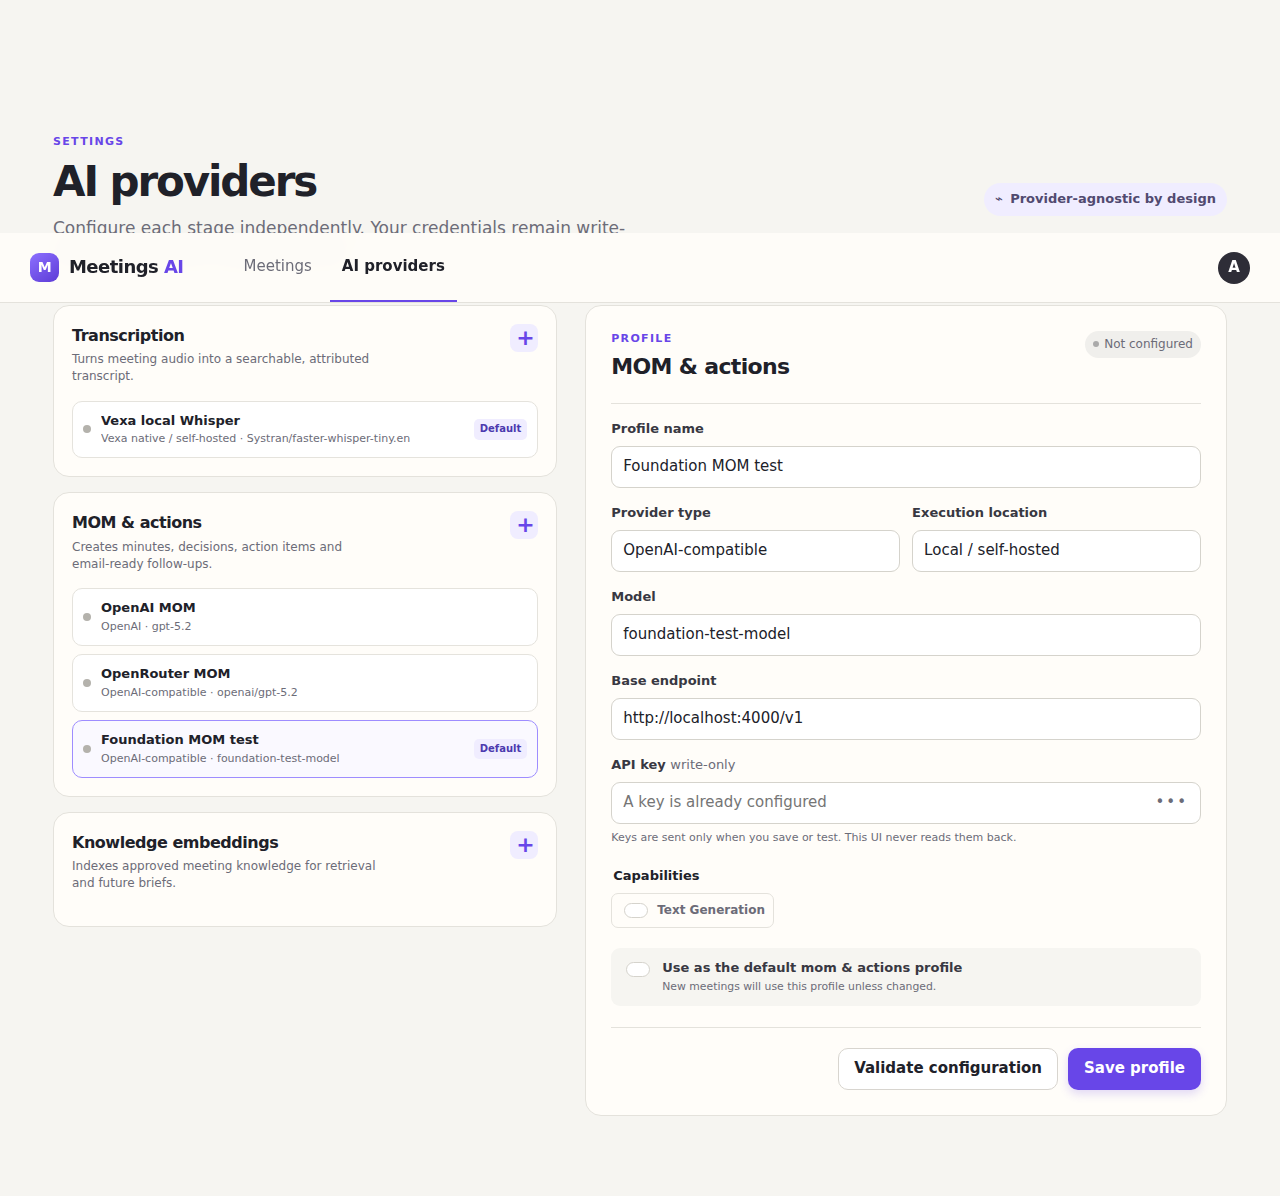
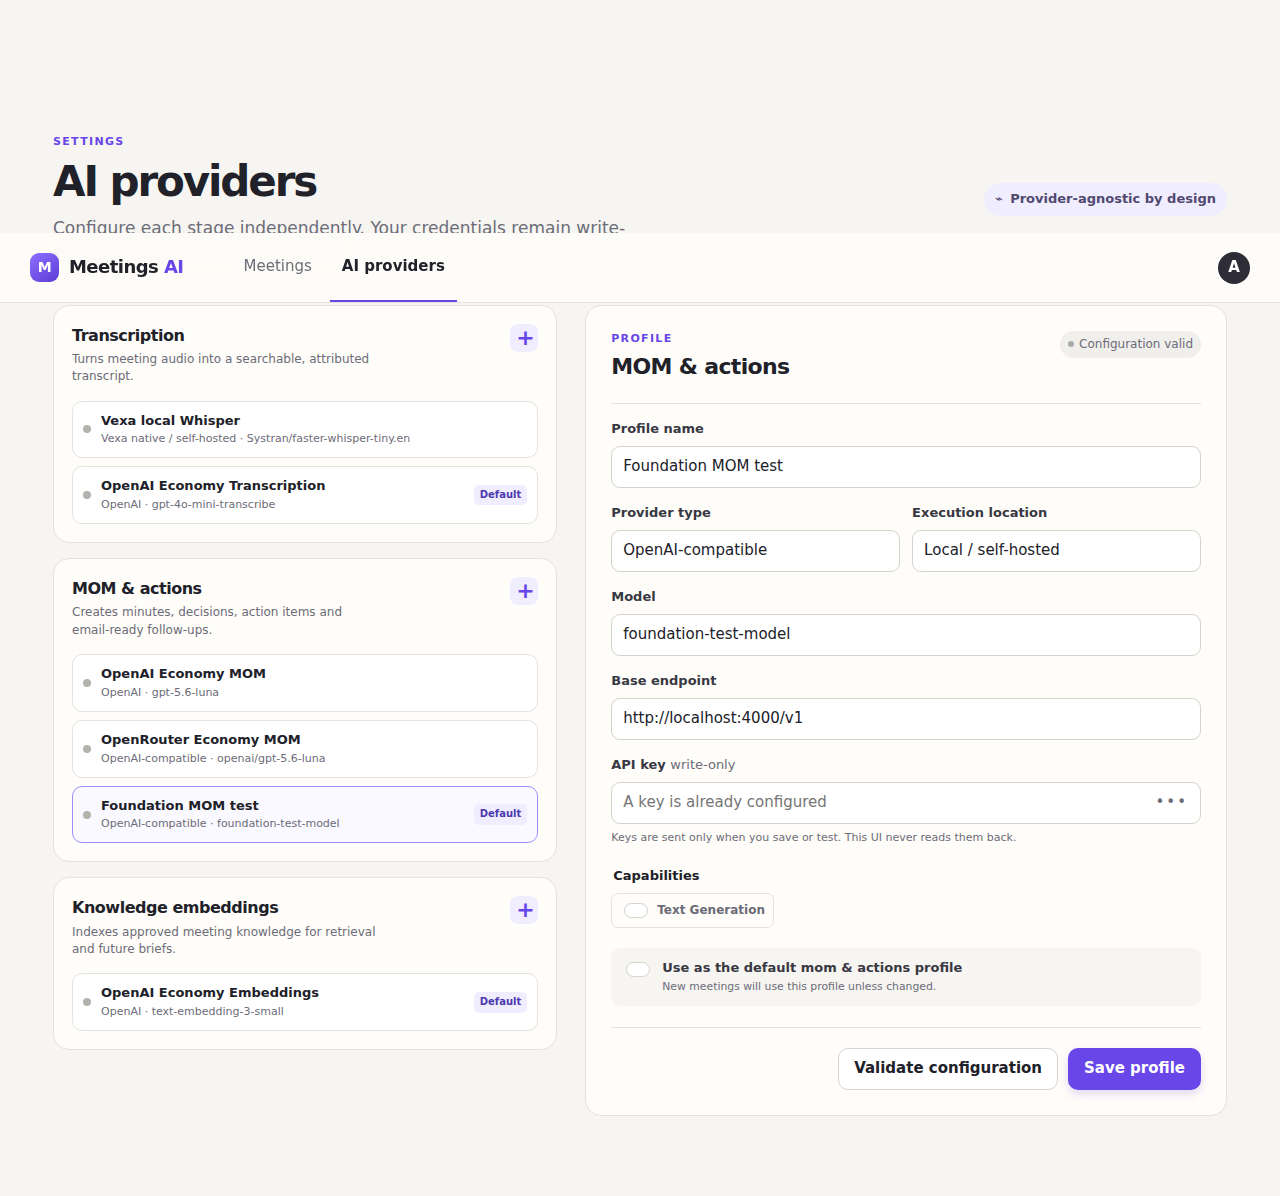
fix: restore provider configuration status in UI

diff --git a/apps/web/src/lib/meetings-service.ts b/apps/web/src/lib/meetings-service.ts
@@ -93,6 +93,11 @@ function providerType(label: string): BackendProviderType {
 function toFrontend(profile: BackendProfile, defaults: BackendDefault[]): ProviderProfile {
   const configured = profile.capabilities[0];
   const capability = configured?.capability ?? "text_generation";
+  const connectionConfigured = profile.provider_type === "openai"
+    ? profile.credential_configured
+    : profile.provider_type === "vexa_native"
+      ? Boolean(profile.base_url)
+      : Boolean(profile.base_url) && (profile.execution_location === "local" || profile.credential_configured);
   return {
     id: profile.id,
     kind: kindFor(capability),
@@ -102,7 +107,7 @@ function toFrontend(profile: BackendProfile, defaults: BackendDefault[]): Provid
     endpoint: profile.base_url ?? "",
     model: configured?.model ?? "",
     capabilities: profile.capabilities.map((item) => item.capability),
-    connectionState: "not_configured",
+    connectionState: connectionConfigured ? "configured" : "not_configured",
     isDefault: defaults.some((item) => item.capability === capability && item.ordered_profile_ids[0] === profile.id),
     apiKeyConfigured: profile.credential_configured,
   };
